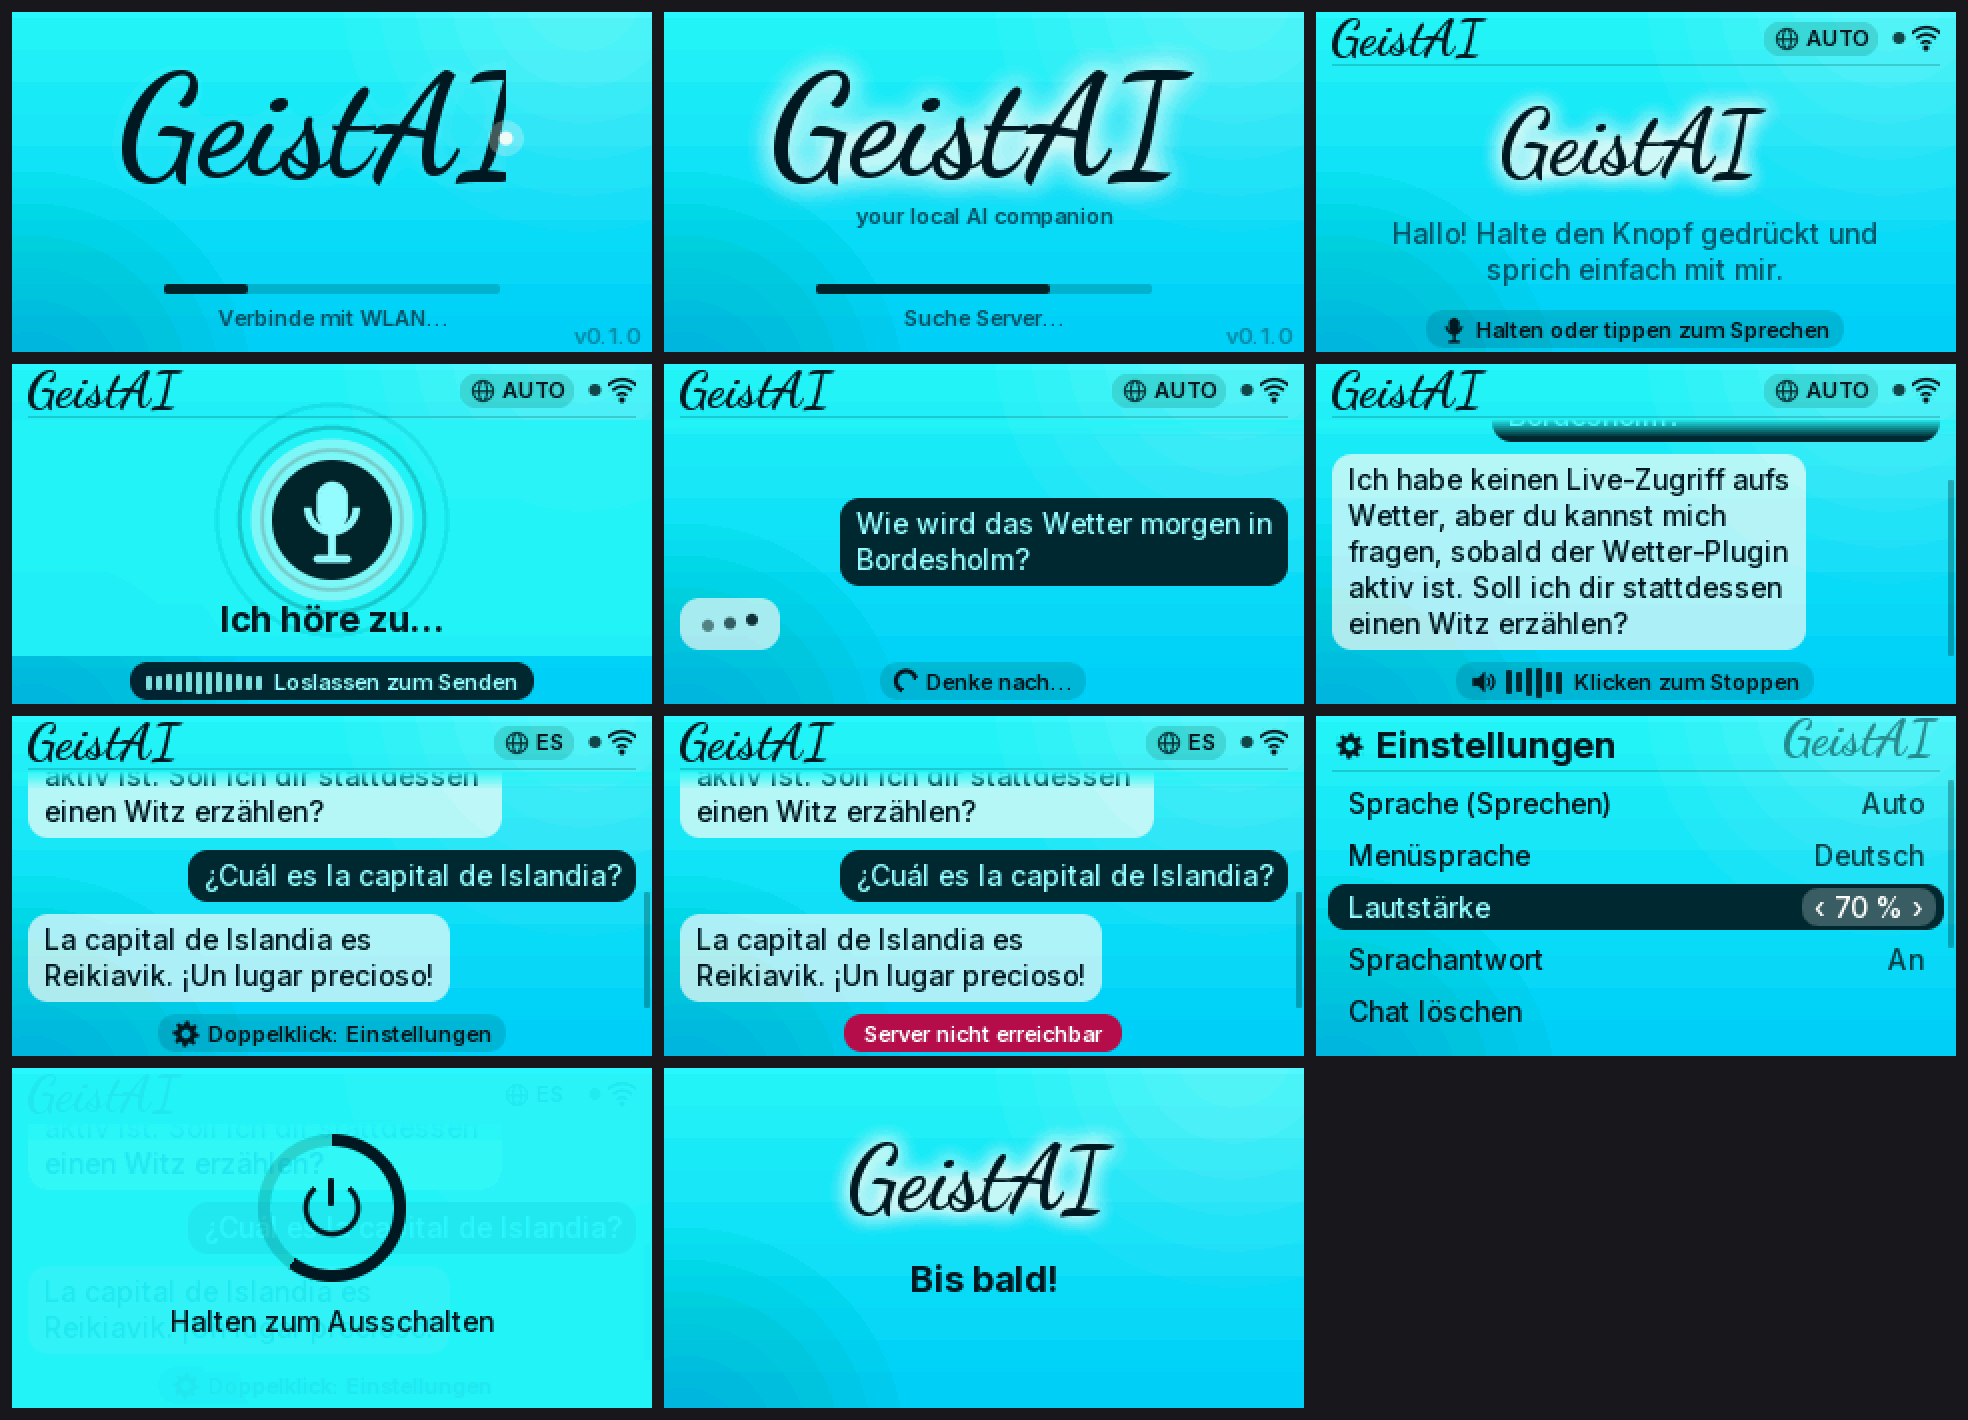
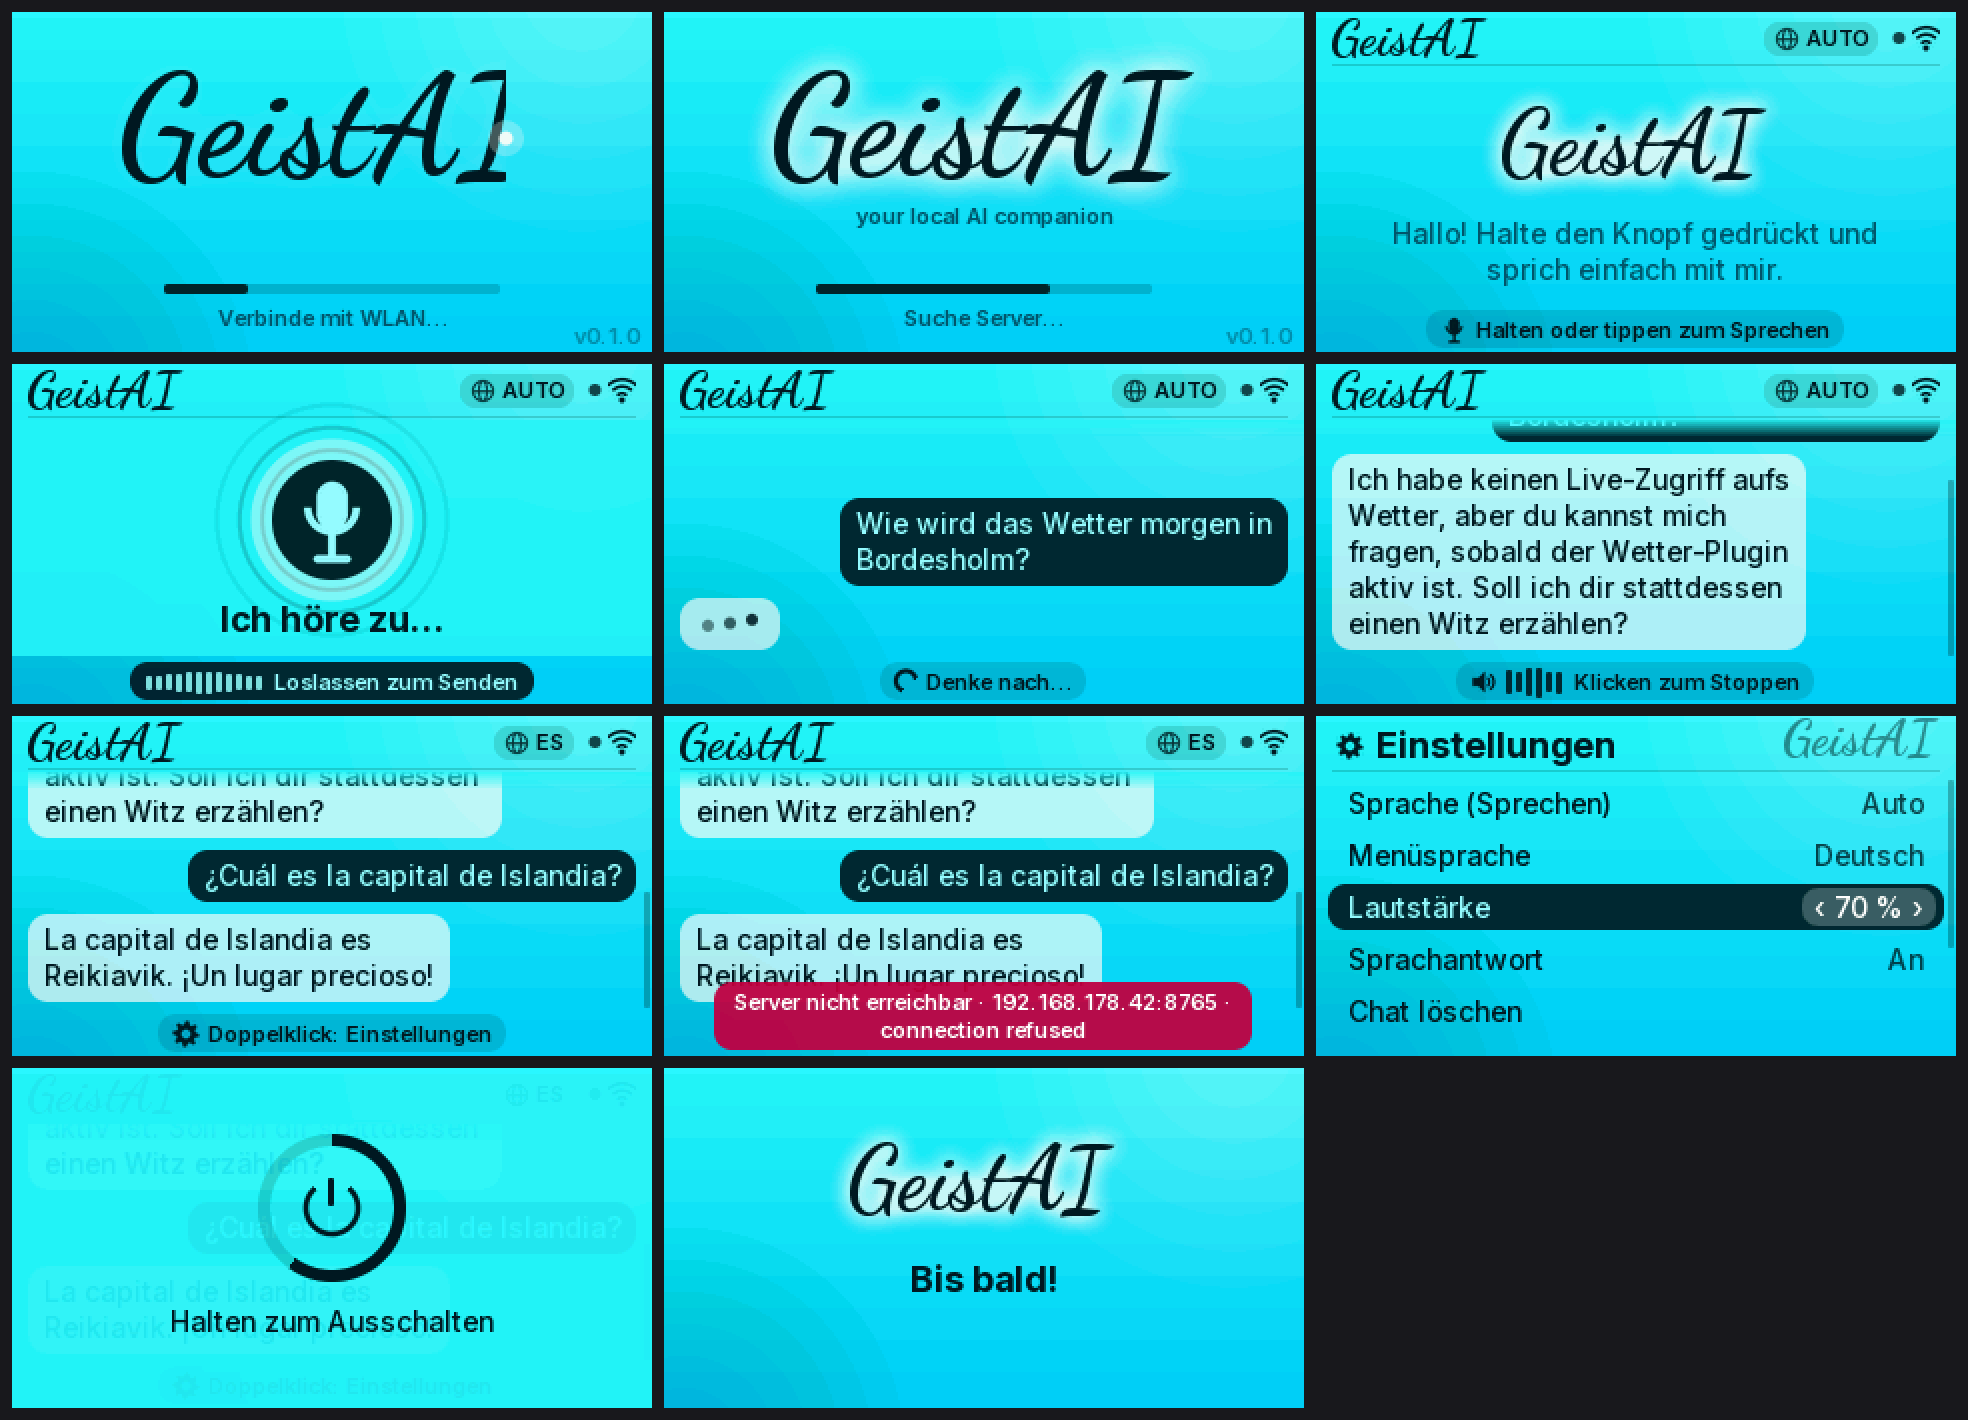
Firmware: wrap long error messages over up to 3 lines
Claude-Session: https://claude.ai/code/session_01X53tUY2K2ZnAezsJqbsBTX

Changed region(s): [[0.341, 0.6817, 0.6509, 0.7437]]

diff --git a/firmware/src/ui.cpp b/firmware/src/ui.cpp
@@ -266,14 +266,23 @@ void drawBottomBar(Canvas& c, const UiModel& m) {
       break;
     }
     case Mode::Error: {
+      // Wrapped over up to 3 lines so long details (address, reason) stay readable.
       const char* t = m.errorText.empty() ? tr(m.uiLang, S_ERR_GENERIC) : m.errorText.c_str();
-      int w = textWidth(font_small, t) + 20;
-      if (w > SCREEN_W - 16) w = SCREEN_W - 16;
-      int x = (SCREEN_W - w) / 2;
-      drawPill(c, x, y, w, ERR_RED, 240);
-      c.setClip(x + 6, y, w - 12, 19);
-      c.drawText(font_small, x + 10, y + 3, t, SNOW);
-      c.resetClip();
+      static Line lines[3];
+      int n = wrapText(font_small, t, SCREEN_W - 40, lines, 3);
+      int maxW = 0;
+      for (int i = 0; i < n; i++) {
+        int lw = textWidth(font_small, t + lines[i].start, lines[i].len);
+        if (lw > maxW) maxW = lw;
+      }
+      int w = maxW + 20, h = n * font_small.lineHeight + 6;
+      int x = (SCREEN_W - w) / 2, top = SCREEN_H - 3 - h;
+      c.fillRoundRect(x, top, w, h, 9, ERR_RED, 240);
+      for (int i = 0; i < n; i++) {
+        int lw = textWidth(font_small, t + lines[i].start, lines[i].len);
+        c.drawText(font_small, (SCREEN_W - lw) / 2, top + 3 + i * font_small.lineHeight,
+                   t + lines[i].start, SNOW, 255, lines[i].len);
+      }
       break;
     }
     default:

diff --git a/tools/sim/sim.cpp b/tools/sim/sim.cpp
@@ -82,7 +82,7 @@ int main(int argc, char** argv) {
   shot("07_idle_chat");
 
   // Error
-  m.mode = Mode::Error; m.errorText = tr(m.uiLang, S_ERR_SERVER);
+  m.mode = Mode::Error; m.errorText = std::string(tr(m.uiLang, S_ERR_SERVER)) + " \xC2\xB7 192.168.178.42:8765 \xC2\xB7 connection refused";
   shot("08_error");
 
   // Settings
